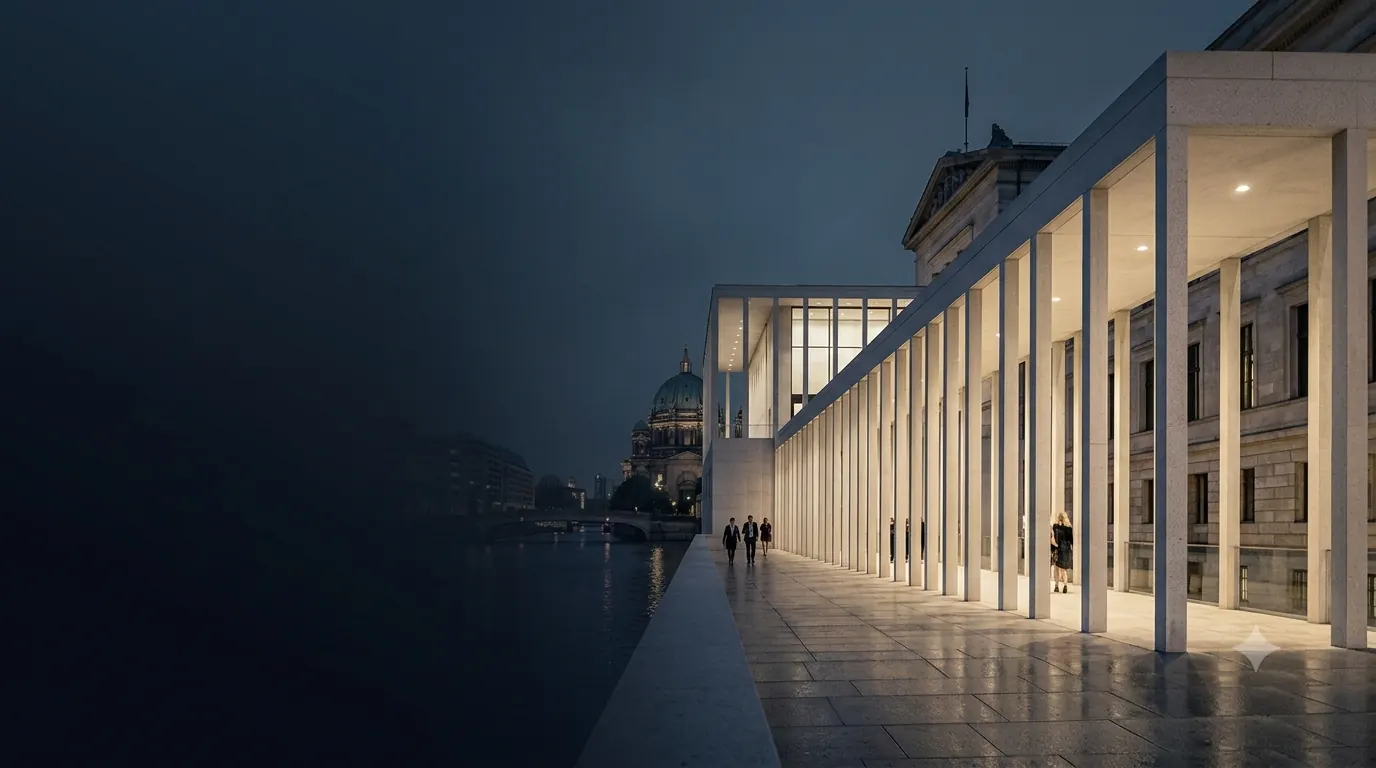
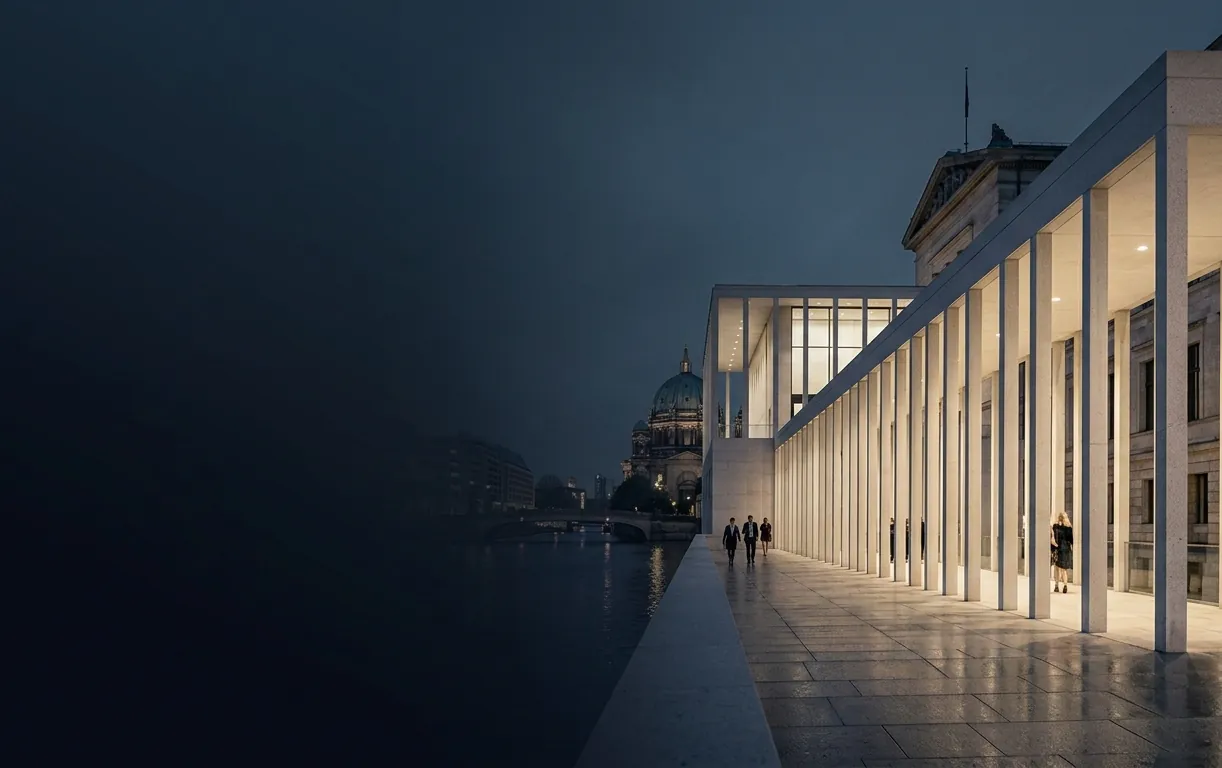
Add business address, remove watermark from hero image
- Impressum, privacy policy and schema.org data now include Rathenower Str. 67, 10559 Berlin
- Hero/OG image cropped to remove the AI watermark in the bottom-right corner

Claude-Session: https://claude.ai/code/session_01W1Vrh341q2hED3hMNqgGsY

diff --git a/impressum.html b/impressum.html
@@ -37,8 +37,8 @@
         <p>
             Carlos Richter Moreno<br>
             CRD Berlin – Carlos Richter Dienstleistungen<br>
-            <span class="todo">[Straße und Hausnummer]</span><br>
-            <span class="todo">[PLZ]</span> Berlin<br>
+            Rathenower Str. 67<br>
+            10559 Berlin<br>
             Deutschland
         </p>
 
@@ -48,11 +48,6 @@
             E-Mail: <a href="mailto:info@crd-berlin.de">info@crd-berlin.de</a>
         </p>
 
-        <h2>Umsatzsteuer</h2>
-        <p>
-            Umsatzsteuer-Identifikationsnummer gemäß § 27a Umsatzsteuergesetz:
-            <span class="todo">[DE… – oder Abschnitt löschen, falls keine USt-IdNr. vorhanden]</span>
-        </p>
 
         <h2>Verantwortlich für den Inhalt nach § 18 Abs. 2 MStV</h2>
         <p>

diff --git a/privacy.html b/privacy.html
@@ -37,7 +37,7 @@
         <p>
             Carlos Richter Moreno<br>
             CRD Berlin – Carlos Richter Dienstleistungen<br>
-            <span class="todo">[Straße und Hausnummer]</span>, <span class="todo">[PLZ]</span> Berlin<br>
+            Rathenower Str. 67, 10559 Berlin<br>
             E-Mail: <a href="mailto:info@crd-berlin.de">info@crd-berlin.de</a> · Telefon: +49 1575 661 4358
         </p>
 

diff --git a/index.html b/index.html
@@ -58,6 +58,8 @@
         "areaServed": "Berlin",
         "address": {
             "@type": "PostalAddress",
+            "streetAddress": "Rathenower Str. 67",
+            "postalCode": "10559",
             "addressLocality": "Berlin",
             "addressCountry": "DE"
         },
